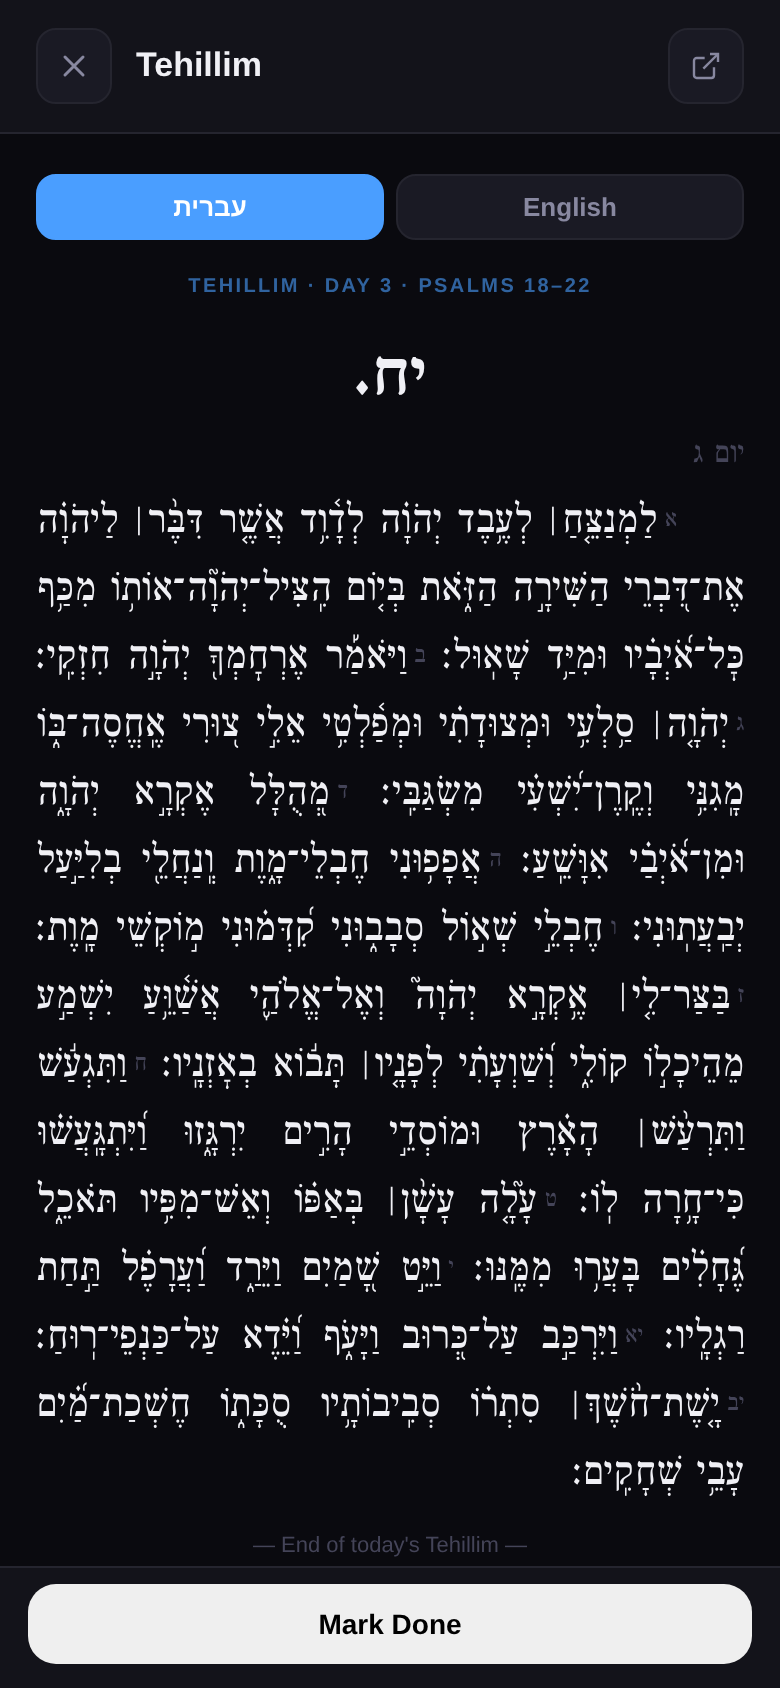
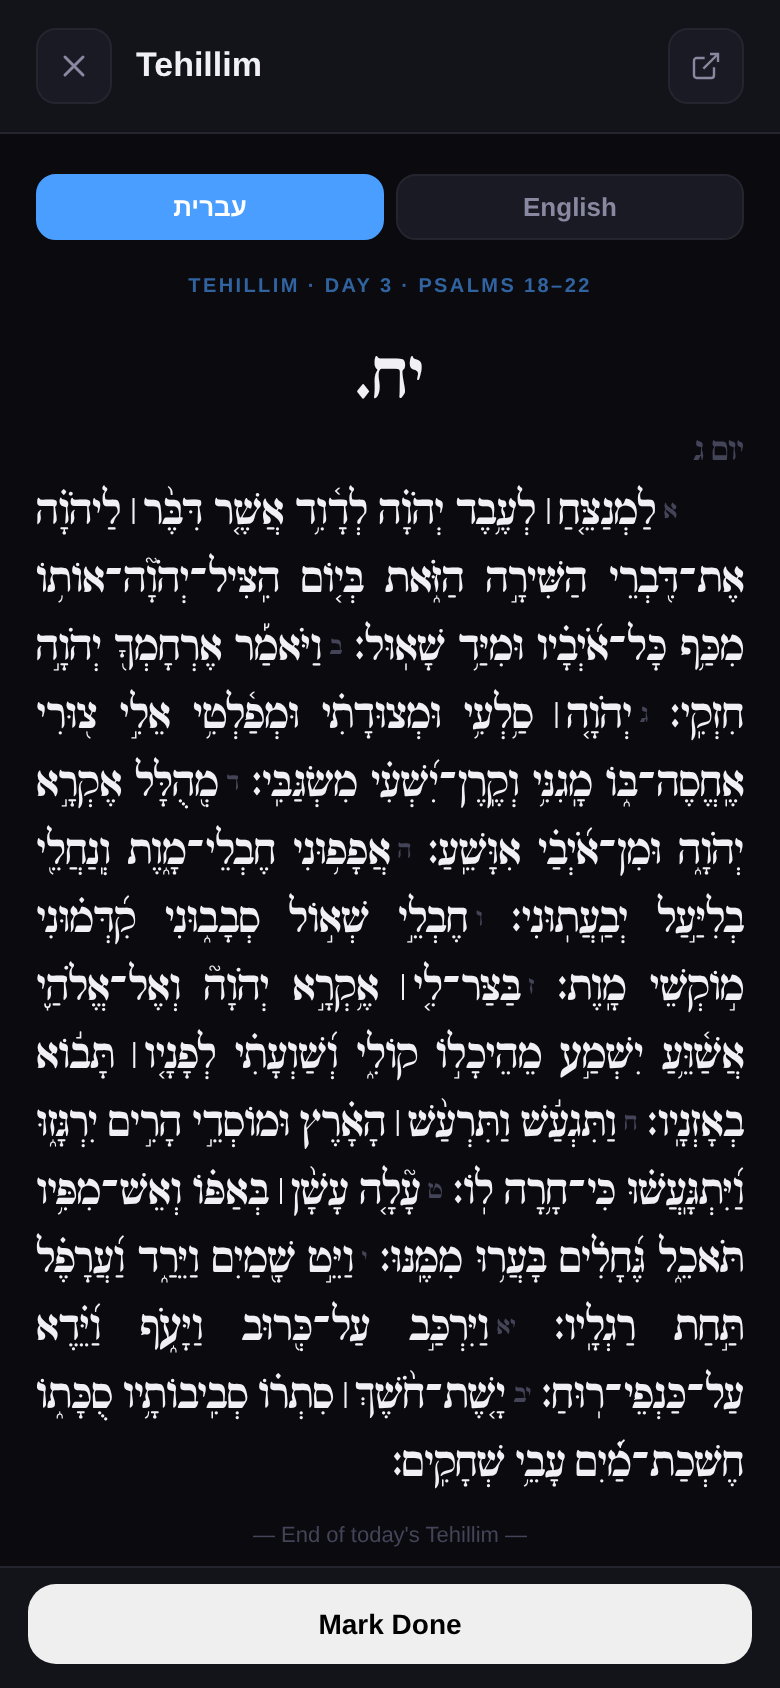
Tehillim: keep the OT Siddur font
Claude-Session: https://claude.ai/code/session_01LRUPatthgLGU828ZuACoyq

Changed region(s): [[0.0308, 0.2773, 0.9538, 0.9242], [0.8923, 0.2464, 0.9538, 0.2773], [0.4615, 0.2156, 0.5231, 0.2464]]

diff --git a/index.html b/index.html
@@ -458,11 +458,11 @@
 .th-chapter { margin-top:22px; }
 .th-chapter.he { direction:rtl; }
 .th-ch-num { text-align:center; font-size:30px; font-weight:700; color:var(--t1); line-height:1.2; margin-bottom:6px; }
-.th-chapter.he .th-ch-num { font-family:'Taamey Frank CLM','Shlomo',serif; font-size:34px; }
+.th-chapter.he .th-ch-num { font-family:'OTSiddur','Shlomo',serif; font-size:34px; }
 .th-day { font-size:13px; color:var(--t3); margin-bottom:6px; }
-.th-chapter.he .th-day { font-family:'Taamey Frank CLM','Shlomo',serif; font-size:16px; text-align:right; }
+.th-chapter.he .th-day { font-family:'OTSiddur','Shlomo',serif; font-size:16px; text-align:right; }
 .th-text { text-align:justify; text-indent:1.6em; color:var(--t1); --rf-sz:16px; --rf-lh:1.65; font-size:var(--rf-sz); line-height:var(--rf-lh); }
-.th-chapter.he .th-text { font-family:'Taamey Frank CLM','Shlomo','Noto Serif Hebrew',serif; --rf-sz:21px; --rf-lh:1.62; text-align-last:right; }
+.th-chapter.he .th-text { font-family:'OTSiddur','Shlomo','Noto Serif Hebrew',serif; --rf-sz:21px; --rf-lh:1.62; text-align-last:right; }
 .th-v { font-size:.6em; color:var(--t3); margin-inline-end:.3em; vertical-align:.25em; text-indent:0; }
 /* Reader: day bar + up next */
 #reader-daybar { display:flex; align-items:center; justify-content:space-between; gap:8px; padding:6px 10px; background:var(--surface); border-bottom:1px solid var(--border); flex-shrink:0; }
@@ -4371,7 +4371,7 @@ function _toHebrewNumeral(n) {
 
 // Laid out like a printed Tehillim: centred chapter number ("יח."), the day
 // of the month ("יום ג") where the day starts, small Hebrew-letter verse
-// markers inline, justified text with a first-line indent, Taamey Frank font.
+// markers inline, justified text with a first-line indent, OT Siddur font.
 function _renderTehillimContent() {
   const { chapters, psalmLabel, dayNum } = window._tehillimData || {};
   if (!chapters || !chapters.length) return;
